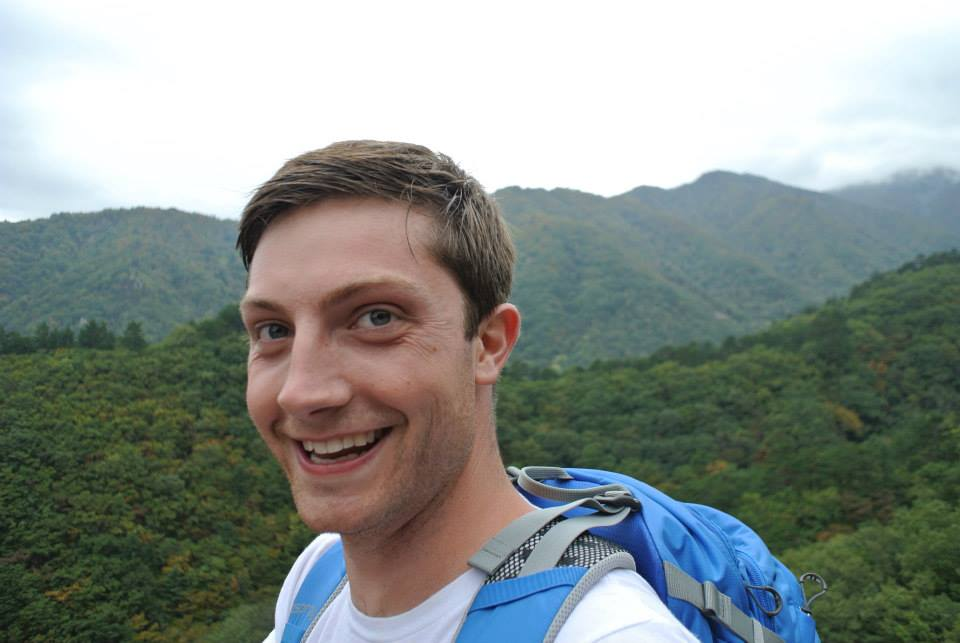
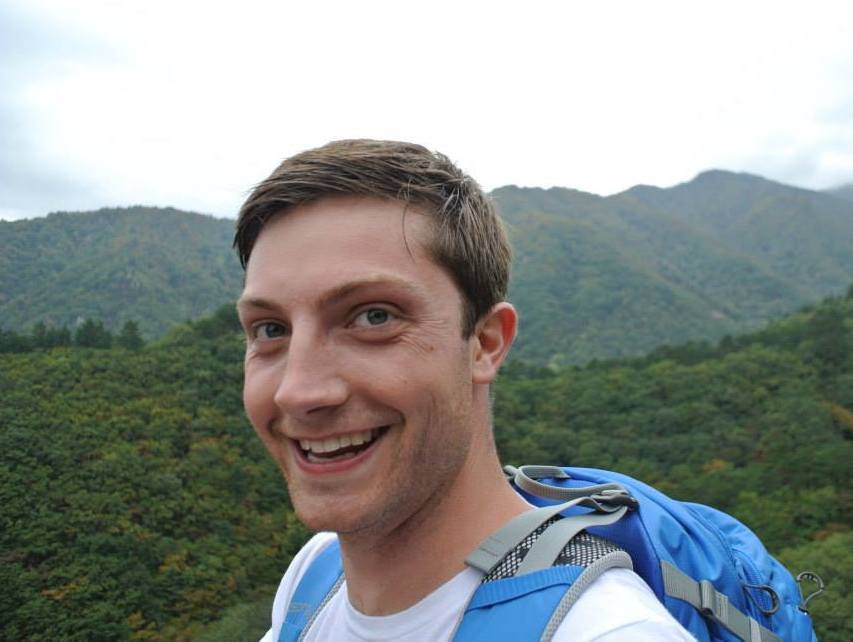
Makes style and content adjustments

diff --git a/styles/style.css b/styles/style.css
@@ -1,41 +1,45 @@
 @import url('https://fonts.googleapis.com/css2?family=Tenor+Sans&display=swap');
 
-/* html { 
-  background: url(/images/tucker-photo.jpg) no-repeat center center fixed; 
-  -webkit-background-size: cover;
-  -moz-background-size: cover;
-  -o-background-size: cover;
-  background-size: cover;
-} */
-
 body {
   font-family: 'Tenor Sans', sans-serif;
   color: #f0d5c0;
   background-color: #144275;
-  height: 100vh;
 }
 
 header {
-  position: fixed;
-  background-color: #144275;
+  position: sticky;
   top: 0;
+  background-color: #144275;
   width: 100vw;
-  height: 85px;
+  z-index: 1;
 }
 
-nav {
-  margin-right: 25px;
+nav ul {
+  margin-right: 50px;
+  display: flex;
+}
+
+li {
+  list-style-type: none;
+}
+
+a {
+  text-decoration: none;
+  color: #f0d5c0;
 }
 
 nav a {
-  text-decoration: none;
-  color: #f0d5c0;
   font-size: 1.2em;
   padding: 0 20px;
 }
 nav a:hover {
   color: #c76e66;
 }
+
+h1 {
+  font-size: 2.5vw;
+}
+
 
 #header-content {
   display: flex;
@@ -45,35 +49,107 @@ nav a:hover {
 
 #header-logo {
   height: 85px;
-  margin-left: 25px;
+  margin-left: 50px;
 }
 
-#navbar a {
-
+#mobile-nav {
+  display: none;
+  border: none;
 }
 
 #welcome-section {
+  display: block;
+  position: relative;
   height: 100vh;
-  margin: 100px;
 }
 
-#about {
+#welcome-container {
   display: flex;
   align-items: center;
   justify-content: space-evenly;
+  width: 100%;
 }
 
-.container {
+#tucker-photo {
+  width: 60%;
+  background-repeat: no-repeat;
+  object-fit: cover;
+  background-position: bottom;
+  position: relative;
+}
+
+#about {
+  height: 100vh;
+  display: block; 
+  position: relative; 
+}
+
+#about-container {
   display: flex;
   align-items: center;
-  justify-content: center;
-  overflow: hidden;
-  min-height: 100%;
-  min-width: 100%;
+  justify-content: space-evenly;
+  height: 100%;
 }
 
-.photo-background {
-  flex-shrink: 0;
-  max-width: 100%;
-  max-height: 100%;
+#about-text {
+  width: 50%;
+  text-align: center;
+}
+
+
+.bar {
+  display: block;
+  width: 25px;
+  height: 3px;
+  margin: 5px auto;
+  -webkit-transition: all 0.3s ease-in-out;
+  transition: all 0.3s ease-in-out;
+  background-color: #f0d5c0;
+}
+
+/* Remember to deal with hamburger menu here */
+@media screen and (max-width: 768px) {
+
+  nav a {
+    display: none;
+  }
+
+  h1 {
+    font-size: 5vw;
+    padding: 20px 0;
+  }
+
+  #header-logo {
+    margin-left: 15px;
+  }
+
+  #mobile-nav {
+    display: block;
+    background-color: #144275;
+  }
+
+  nav ul {
+    flex-direction: column;
+    background-color: #fff;
+    width: 100%;
+    border-radius: 10px;
+    text-align: center;
+    transition: 0.3s;
+    box-shadow:
+        0 10px 27px rgba(0, 0, 0, 0.05);
+  }
+
+  #welcome-container {
+    display: block;
+    text-align: center;
+    height: 100vh;
+  }
+
+  #tucker-photo {
+    width: 100vw;
+  }
+
+  #tucker-avatar {
+
+  }
 }

diff --git a/index.html b/index.html
@@ -17,24 +17,51 @@
         <div id="header-content">
           <a href="#welcome-section"><img src="images/logo-2.png" id="header-logo" alt="Tucker's Logo"></a>
           <nav id="navbar">
-            <a href="#about">About</a>
-            <a href="#projects">Projects</a>
-            <a href="#contact">Contact</a>
+            <ul>
+              <li class="nav-item"><a href="#about">About</a></li>
+              <li class="nav-item"><a href="#projects">Projects</a></li>
+              <li class="nav-item"><a href="#contact">Contact</a></li>
+            </ul>
+            <button id="mobile-nav">
+              <span class="bar"></span>
+              <span class="bar"></span>
+              <span class="bar"></span>
+            </button>
           </nav>
         </div>
       </header>
   
       <section id="welcome-section">
-        <h1>Hey! I'm Tucker Barrett.</h1>
-        <img id="tucker" class="photo-background" src="images/tucker-photo.jpg" alt="Tucker Barrett">
+        <div id="welcome-container">
+          <h1>Hey! I'm Tucker Barrett.</h1>
+          <img id="tucker-photo" class="photo-background" src="images/tucker-photo.jpg" alt="Tucker Barrett">
+        </div>
       </section>
   
       <section id="about">
-        <img src="images/tucker-avatar.png" id="tucker-avatar" alt="Tucker's avatar">
-        <h2>A little about me</h2>
-        <p>I'm a music teacher-turned-developer. I've always been excited about tech, but am finally
-          making the change to begin contributing to the industry, rather than simply benefiting from it.
-        </p>
+        <div id="about-container">
+          <img src="images/tucker-avatar.png" id="tucker-avatar" alt="Tucker's avatar">
+          <div id="about-text">
+            <h2>A little about me</h2>
+            <p>I'm a music teacher-turned-developer. I've always been excited about tech, but am finally
+              making the change to begin contributing to the industry, rather than simply benefiting from it.
+            </p>
+          </div>
+        </div>
+      </section>
+
+      <section id="projects">
+        <div class="project-tile">
+          <a href="https://grinninbarrett.github.io/wasted-class-time/">Wasted Class Time</a>
+        </div>
+      </section>
+
+      <section id="contact">
+        <div id="contact-content">
+          <ul>
+            <li><a id="profile-link" target="_blank" href="https://github.com/GrinninBarrett">GitHub</a></li>
+          </ul>
+        </div>
       </section>
     </main>
 
